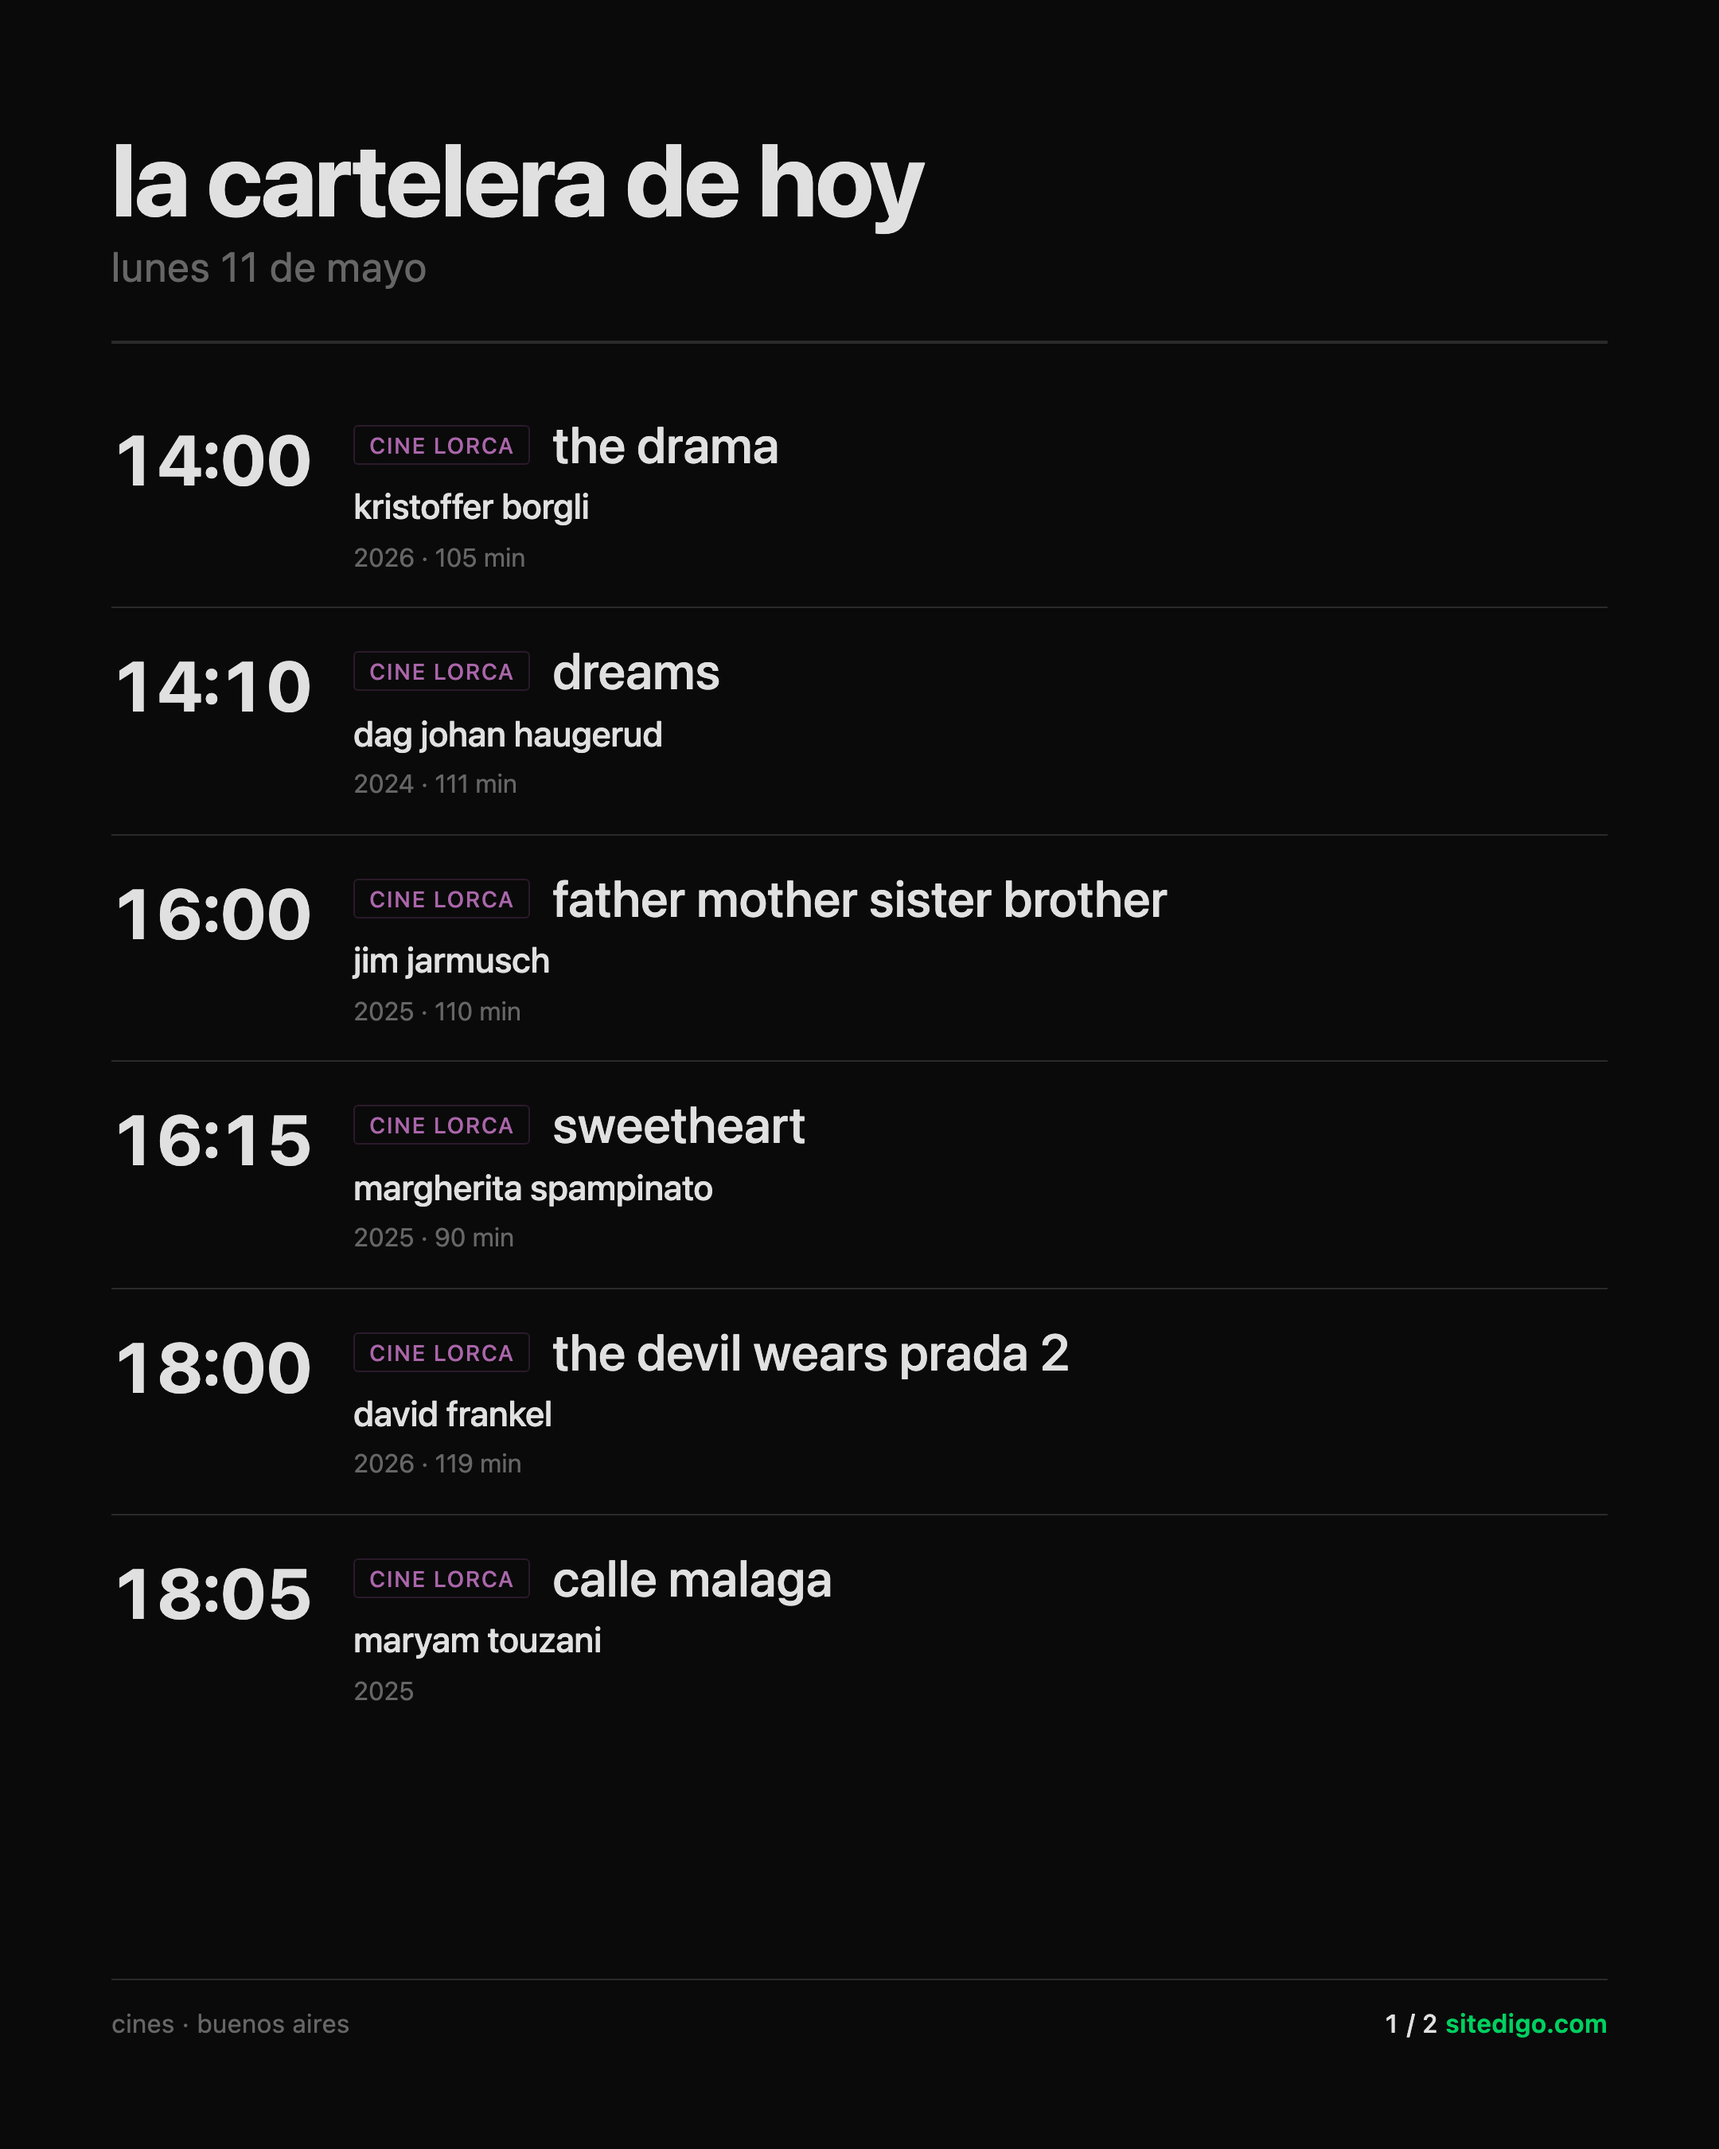
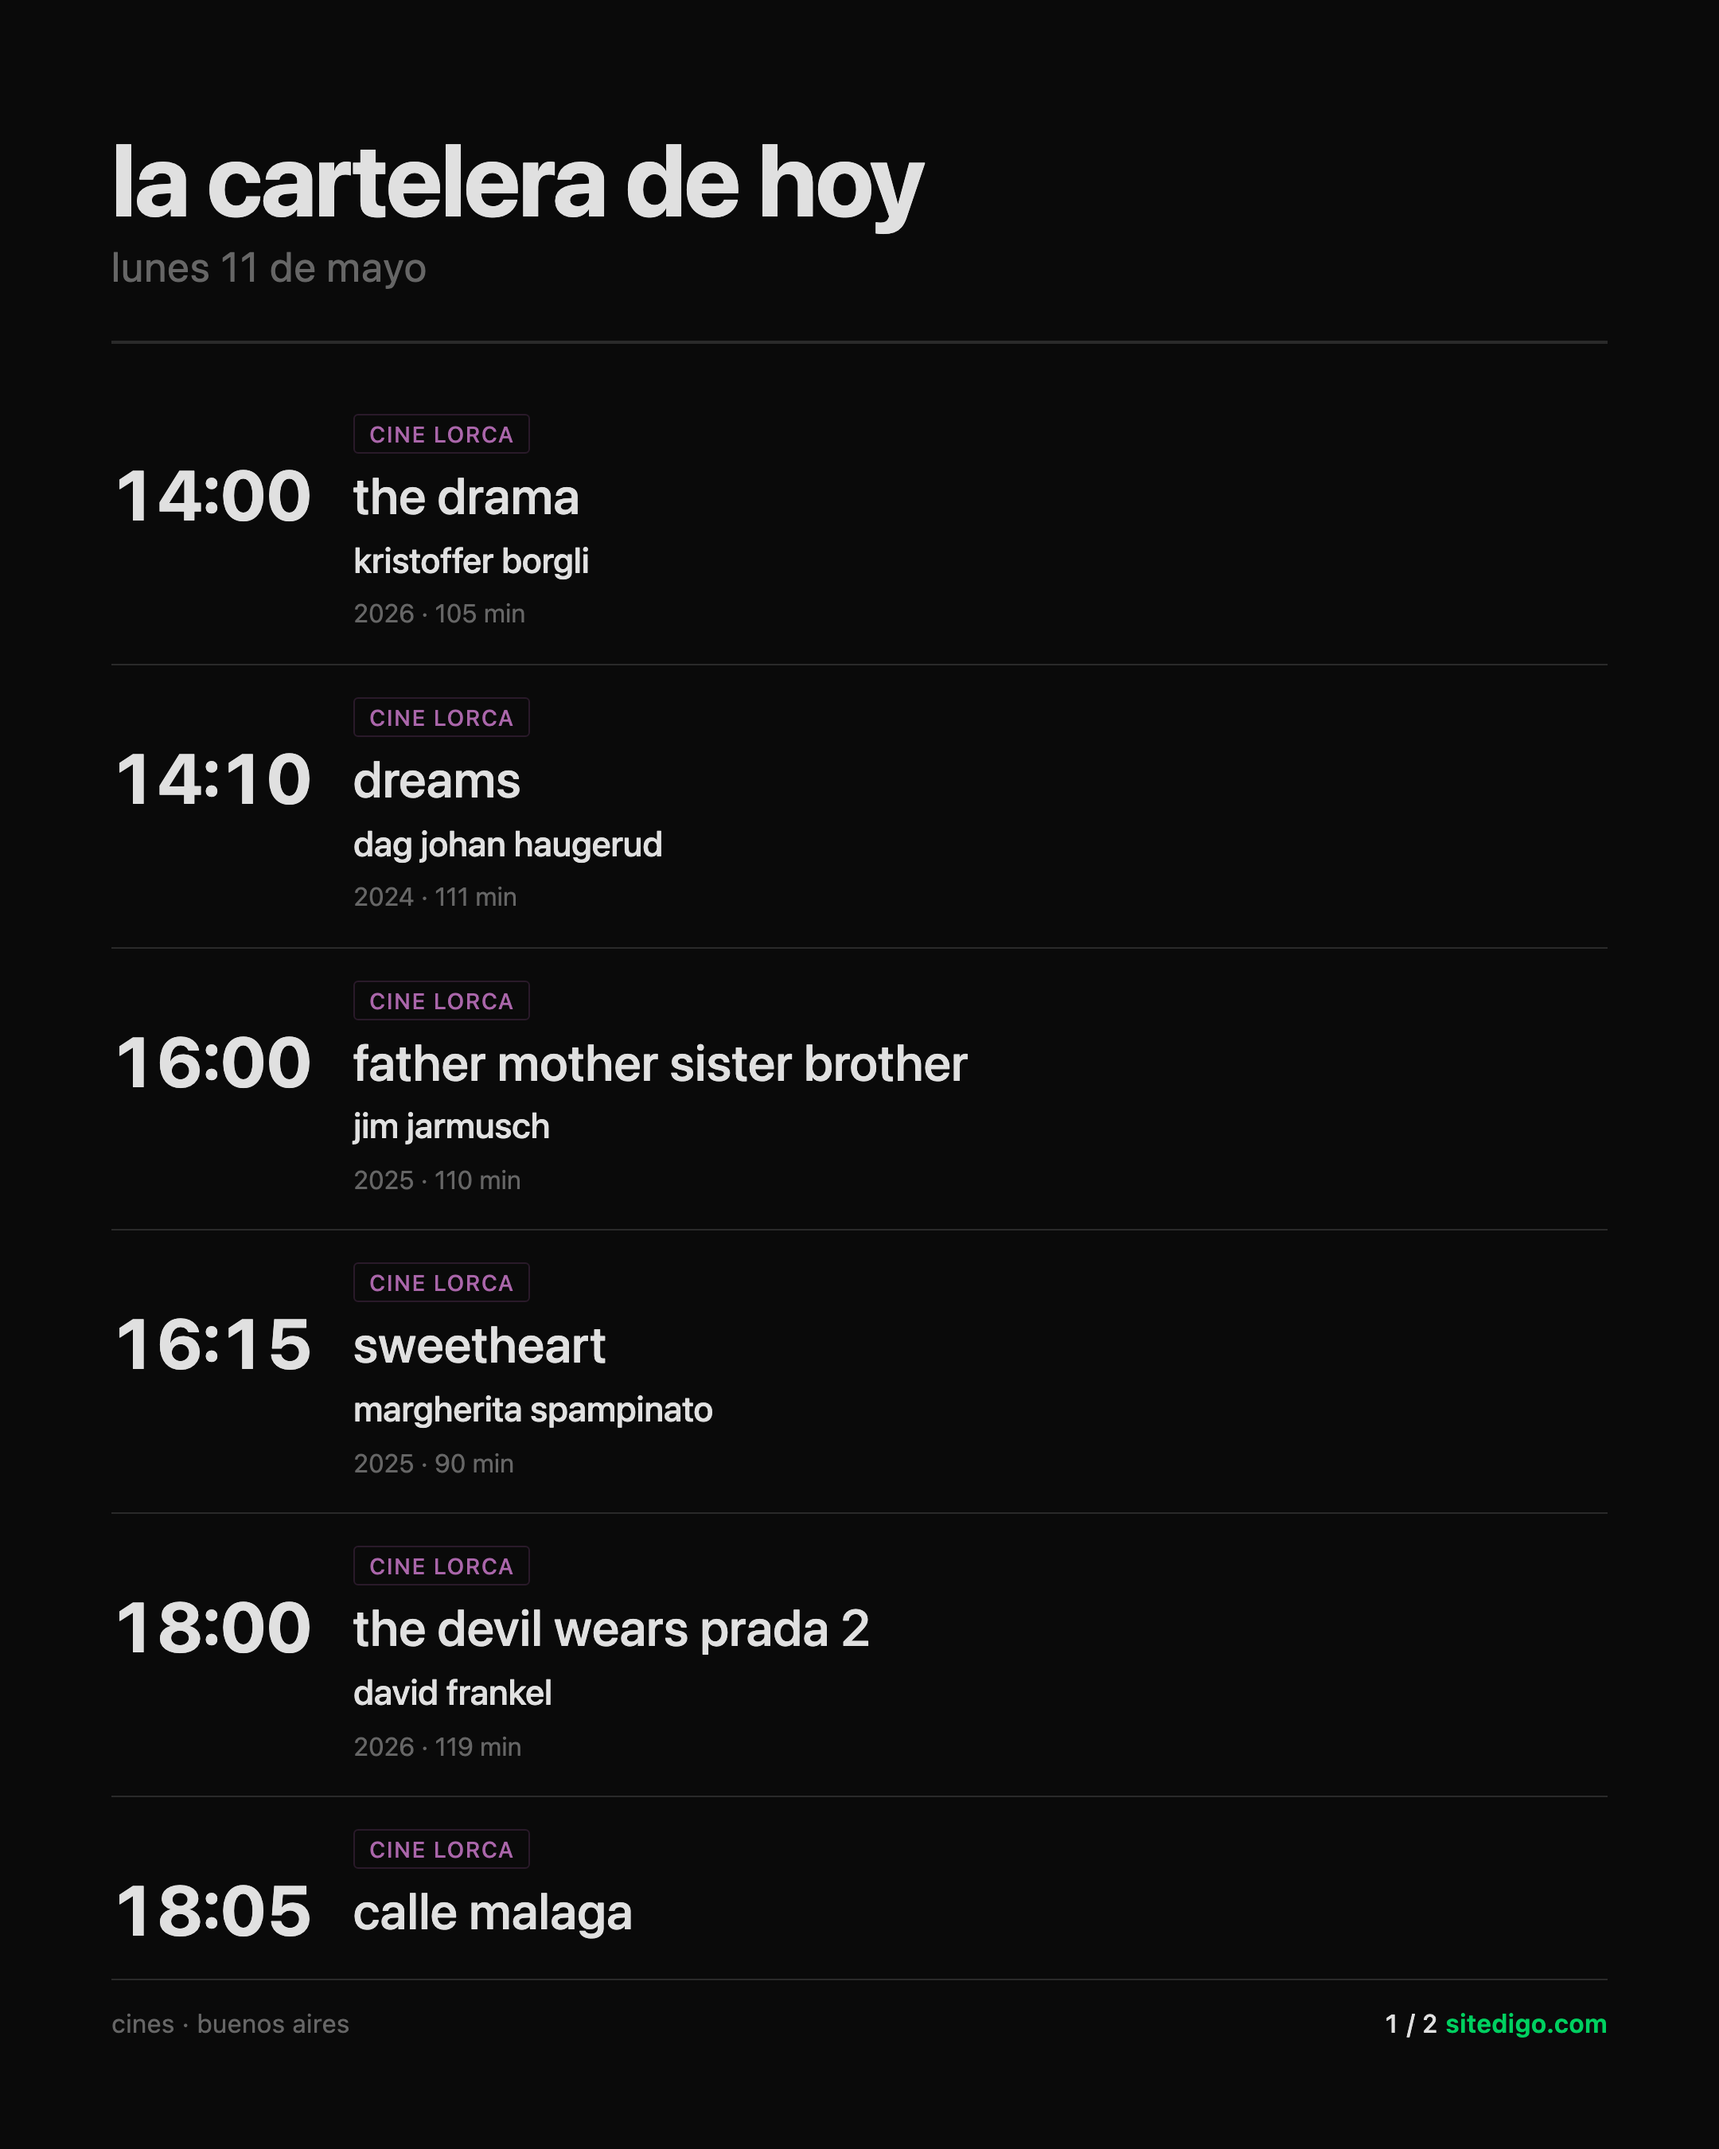
fix(ig): badge stacked above title, hora aligned with title baseline

diff --git a/instagram.html b/instagram.html
@@ -92,20 +92,13 @@
     font-size: 44px; font-weight: 700;
     font-variant-numeric: tabular-nums;
     color: var(--text); line-height: 1;
-    /* alineado con la baseline del título (badge queda inline) */
-    padding-top: 6px;
+    /* Push down para que la baseline de la hora se alinee con la del título
+       (el badge del cine queda arriba, no contra la hora) */
+    padding-top: 28px;
   }
-  .film-time.unknown { color: var(--muted); font-size: 22px; font-weight: 400; }
+  .film-time.unknown { color: var(--muted); font-size: 22px; font-weight: 400; padding-top: 36px; }
 
-  .film-body { display: flex; flex-direction: column; gap: 6px; min-width: 0; }
-
-  /* Row con badge inline con título — alinea verticalmente con la hora */
-  .film-title-row {
-    display: flex;
-    align-items: baseline;
-    gap: 14px;
-    flex-wrap: wrap;
-  }
+  .film-body { display: flex; flex-direction: column; gap: 8px; min-width: 0; }
 
   .film-cine {
     display: inline-block;
@@ -113,9 +106,8 @@
     border: 1px solid var(--border); border-radius: 3px;
     color: var(--muted); text-transform: uppercase; letter-spacing: 0.06em;
     font-weight: 500;
-    flex-shrink: 0;
-    /* Pequeño offset para que el badge se vea centrado con la x-height del título */
-    transform: translateY(-6px);
+    width: fit-content;
+    margin-bottom: 0;
   }
   .cine-malba    { border-color: #2a3a4a; color: #6aaecc; }
   .cine-lugones  { border-color: #3a2a1a; color: #cc8844; }
@@ -127,9 +119,9 @@
 
   /* Lowercase para el contenido (no para badges/labels uppercase) */
   .film-title {
-    font-size: 32px; font-weight: 500; line-height: 1.2;
+    font-size: 32px; font-weight: 500; line-height: 1.15;
     color: var(--text); text-transform: lowercase;
-    display: inline;
+    display: block;
   }
   .film-director { font-size: 22px; font-weight: 500; color: var(--text); line-height: 1.3; text-transform: lowercase; }
   .film-meta { font-size: 16px; color: var(--muted); line-height: 1.4; }
@@ -340,10 +332,8 @@ function renderSlide(slideNum) {
       return `<div class="film">
         <div class="${horaClass}">${horaText}</div>
         <div class="film-body">
-          <div class="film-title-row">
-            <span class="film-cine ${cineCssClass(s.cine)}">${escapeHtml(s.cine)}</span>
-            <span class="film-title">${escapeHtml(displayTitle(s))}</span>
-          </div>
+          <span class="film-cine ${cineCssClass(s.cine)}">${escapeHtml(s.cine)}</span>
+          <div class="film-title">${escapeHtml(displayTitle(s))}</div>
           ${s.director ? `<div class="film-director">${escapeHtml(s.director)}</div>` : ''}
           ${yearDur ? `<div class="film-meta">${escapeHtml(yearDur)}</div>` : ''}
           ${s.ciclo ? `<div class="film-ciclo">${escapeHtml(s.ciclo)}</div>` : ''}
